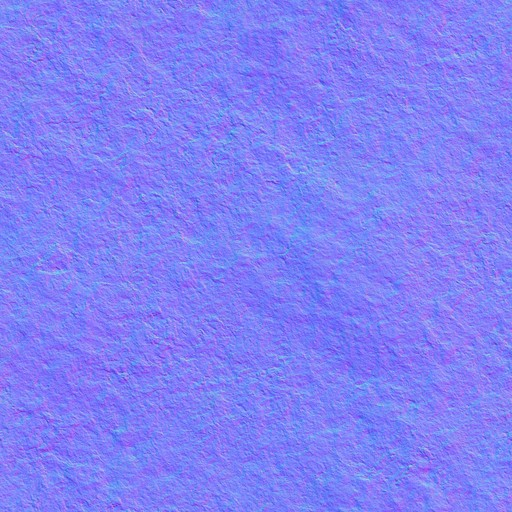
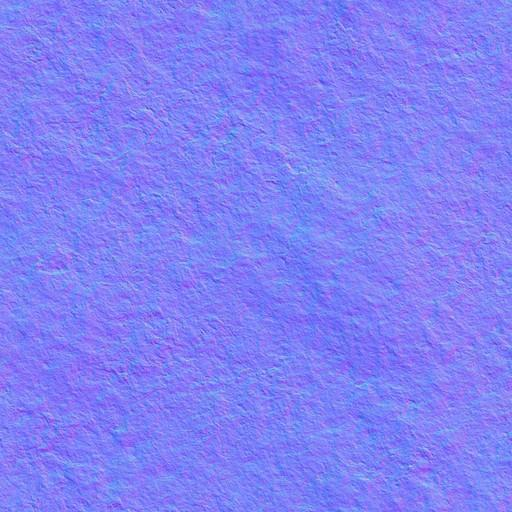
dive Phase 8 S2：地形・植生テクスチャの再圧縮
- prep_pbr.py に --recompress と品質の引数を追加
- 13枚を同じ名前のまま再圧縮（JPEG q75、WebP q85・アルファq75）
- base64 で 2,001 → 1,394 KB（設計の上限 1,250 KB には未達。理由は設計書 §9.3）

Claude-Session: https://claude.ai/code/session_0151Z8VBXSpBiCNFFxZsaXUf

diff --git a/dive/scripts/prep_pbr.py b/dive/scripts/prep_pbr.py
@@ -1,14 +1,29 @@
 """Prepare CC0 PBR textures (Poly Haven, https://polyhaven.com, CC0) for the game.
 
-Usage: python3 scripts/prep_pbr.py <download_dir>
+Usage: python3 scripts/prep_pbr.py <download_dir> [--jpeg-quality 75]
+       python3 scripts/prep_pbr.py --recompress <tex_dir> [--jpeg-quality 75] [--webp-quality 85]
+                                    [--alpha-quality 75] [--only NAME ...]
 Writes src/assets/tex/pbr_<name>_a.jpg (albedo, mean-normalised so vertex/instance colour drives hue)
 and pbr_<name>_n.jpg (OpenGL normal map), 512x512, tileable.
+
+--recompress needs no downloads: it re-encodes the *.jpg and *.webp files found in <tex_dir> into
+src/assets/tex under the same names. Re-encoding is lossy and adds up, so <tex_dir> should hold the files
+from before the last recompression (e.g. taken out of git history), not the current output.
+To give one file its quality back, pass --only NAME with a higher quality.
 """
-import os, sys
+import argparse, io, os
 import numpy as np
 from PIL import Image
 
-SRC = sys.argv[1]
+ap = argparse.ArgumentParser()
+ap.add_argument('src', help='download dir, or with --recompress the dir holding the files to re-encode')
+ap.add_argument('--recompress', action='store_true')
+ap.add_argument('--jpeg-quality', type=int, default=75)
+ap.add_argument('--webp-quality', type=int, default=85)
+ap.add_argument('--alpha-quality', type=int, default=75, help='WebP alpha (the albedo detail of sand/polyp/brain)')
+ap.add_argument('--only', nargs='+', help='file names to re-encode (default: all)')
+args = ap.parse_args()
+SRC = args.src
 OUT = os.path.join(os.path.dirname(__file__), '..', 'src', 'assets', 'tex')
 SETS = {
     'sand': ('aerial_sand', 0.25),       # (source id, saturation kept)
@@ -17,6 +32,31 @@ SETS = {
     'rock': ('seaside_rock', 0.35),
     'rust': ('rusty_metal_02', 1.0),
 }
+
+
+def recompress():
+    for f in sorted(args.only or os.listdir(SRC)):
+        ext = os.path.splitext(f)[1]
+        if ext not in ('.jpg', '.webp'):
+            continue
+        im = Image.open(os.path.join(SRC, f))
+        im.load()
+        buf = io.BytesIO()
+        if ext == '.jpg':
+            im.save(buf, 'JPEG', quality=args.jpeg_quality, optimize=True)
+        else:
+            # exact: RGB is a normal map, so keep it even where alpha is 0
+            im.save(buf, 'WEBP', quality=args.webp_quality, alpha_quality=args.alpha_quality, method=6, exact=True)
+        before = os.path.getsize(os.path.join(SRC, f))
+        with open(os.path.join(OUT, f), 'wb') as out:
+            out.write(buf.getvalue())
+        print(f, before, '->', len(buf.getvalue()), 'bytes')
+
+
+if args.recompress:
+    recompress()
+    raise SystemExit
+
 for name, (sid, sat) in SETS.items():
     a = np.asarray(Image.open(os.path.join(SRC, f'{sid}_diff.jpg')).convert('RGB').resize((512, 512), Image.LANCZOS)).astype(np.float32) / 255
     lum = a @ np.array([0.299, 0.587, 0.114], np.float32)
@@ -24,7 +64,7 @@ for name, (sid, sat) in SETS.items():
     a = a / max(1e-3, a.mean()) * 0.5                          # mean 0.5 -> shader multiplies by 2
     # widen local contrast a touch so detail survives water fog
     a = np.clip(0.5 + (a - 0.5) * 1.25, 0, 1)
-    Image.fromarray((a * 255).astype(np.uint8)).save(os.path.join(OUT, f'pbr_{name}_a.jpg'), quality=86, optimize=True)
+    Image.fromarray((a * 255).astype(np.uint8)).save(os.path.join(OUT, f'pbr_{name}_a.jpg'), quality=args.jpeg_quality, optimize=True)
     n = Image.open(os.path.join(SRC, f'{sid}_nor_gl.jpg')).convert('RGB').resize((512, 512), Image.LANCZOS)
-    n.save(os.path.join(OUT, f'pbr_{name}_n.jpg'), quality=90, optimize=True)
+    n.save(os.path.join(OUT, f'pbr_{name}_n.jpg'), quality=args.jpeg_quality, optimize=True)
     print(name, os.path.getsize(os.path.join(OUT, f'pbr_{name}_a.jpg')) // 1024, os.path.getsize(os.path.join(OUT, f'pbr_{name}_n.jpg')) // 1024, 'KB')

diff --git a/dive/docs/PHASE8-DESIGN.md b/dive/docs/PHASE8-DESIGN.md
@@ -468,6 +468,10 @@
 ### 9.3 S2 テクスチャ（`scripts/prep_pbr.py`、`src/render/baked.ts`）
 
 - 再圧縮の設定を `prep_pbr.py` に引数で足す（品質・形式）。比較画像（§10.3）で劣化が見えたら 1 枚ずつ品質を戻す。
+- 実装時の補足（S2）：`prep_pbr.py --recompress <元のファイルのフォルダ>` を追加し、13 枚を再圧縮した（JPEG q75、WebP q85・アルファ q75）。ゲームの画面（砂地・サンゴ礁・岩礁・沈没船・遺跡）で劣化は見えないので、品質は戻していない。テクスチャ単体の拡大では法線マップの細部がわずかになめらかになる。
+  - 結果は 2,001 → 1,394 KB（base64）で、§6.4 の上限 1,250 KB に約 140 KB 届かない。`sand.webp` は「非可逆でない」前提で約 120 KB を見込んでいたが、実際は色がすでに非可逆（187 KB）でアルファが可逆（170 KB）だったので、349 → 263 KB にとどまった。
+  - 法線マップの WebP は、ファイル名・拡張子を変えないので試していない（JPEG のまま）。
+  - 残りを詰める案（未実施）：アルファ品質を下げる、法線 JPEG・WebP の品質をさらに下げる、WebP に置き換えて import を直す。いずれも S6 で全体の大きさを見て決める。
 
 ### 9.4 S3 泳ぎ（`creatures.ts` `makeMaterial`／`writeInstance`、`species2.ts` の `B`）
 

diff --git a/dive/src/assets/tex/CREDITS.md b/dive/src/assets/tex/CREDITS.md
@@ -2,3 +2,4 @@
 
 - `pbr_*` : Poly Haven (https://polyhaven.com) — CC0 1.0. Sources: aerial_sand, coral_gravel, coral_ground_02, seaside_rock, rusty_metal_02 (resized, recoloured).
 - `sand.webp`, `polyp.webp`, `brain.webp` : generated by `scripts/gen_textures.py` (PNG output, converted to WebP).
+- 再圧縮（Phase 8 S2）：上の 13 枚すべてを `python3 scripts/prep_pbr.py --recompress <元のファイルのフォルダ>` で再圧縮した（JPEG q75、WebP q85・アルファ q75。大きさ・ファイル名・出典・ライセンスは変えていない）。入力は再圧縮前のファイル（git の履歴 `4475bd0` の `src/assets/tex/`）。

diff --git a/dive/README.md b/dive/README.md
@@ -35,6 +35,7 @@ npm install
 npm run dev        # http://127.0.0.1:5190
 npm run artifact   # dist/artifact.html（1ファイルにインライン化）
 python3 scripts/gen_textures.py   # 表面テクスチャの再生成
+python3 scripts/prep_pbr.py --recompress <元のフォルダ>   # テクスチャの再圧縮（JPEG q75・WebP q85）
 ```
 
 ## 撮影の判定
